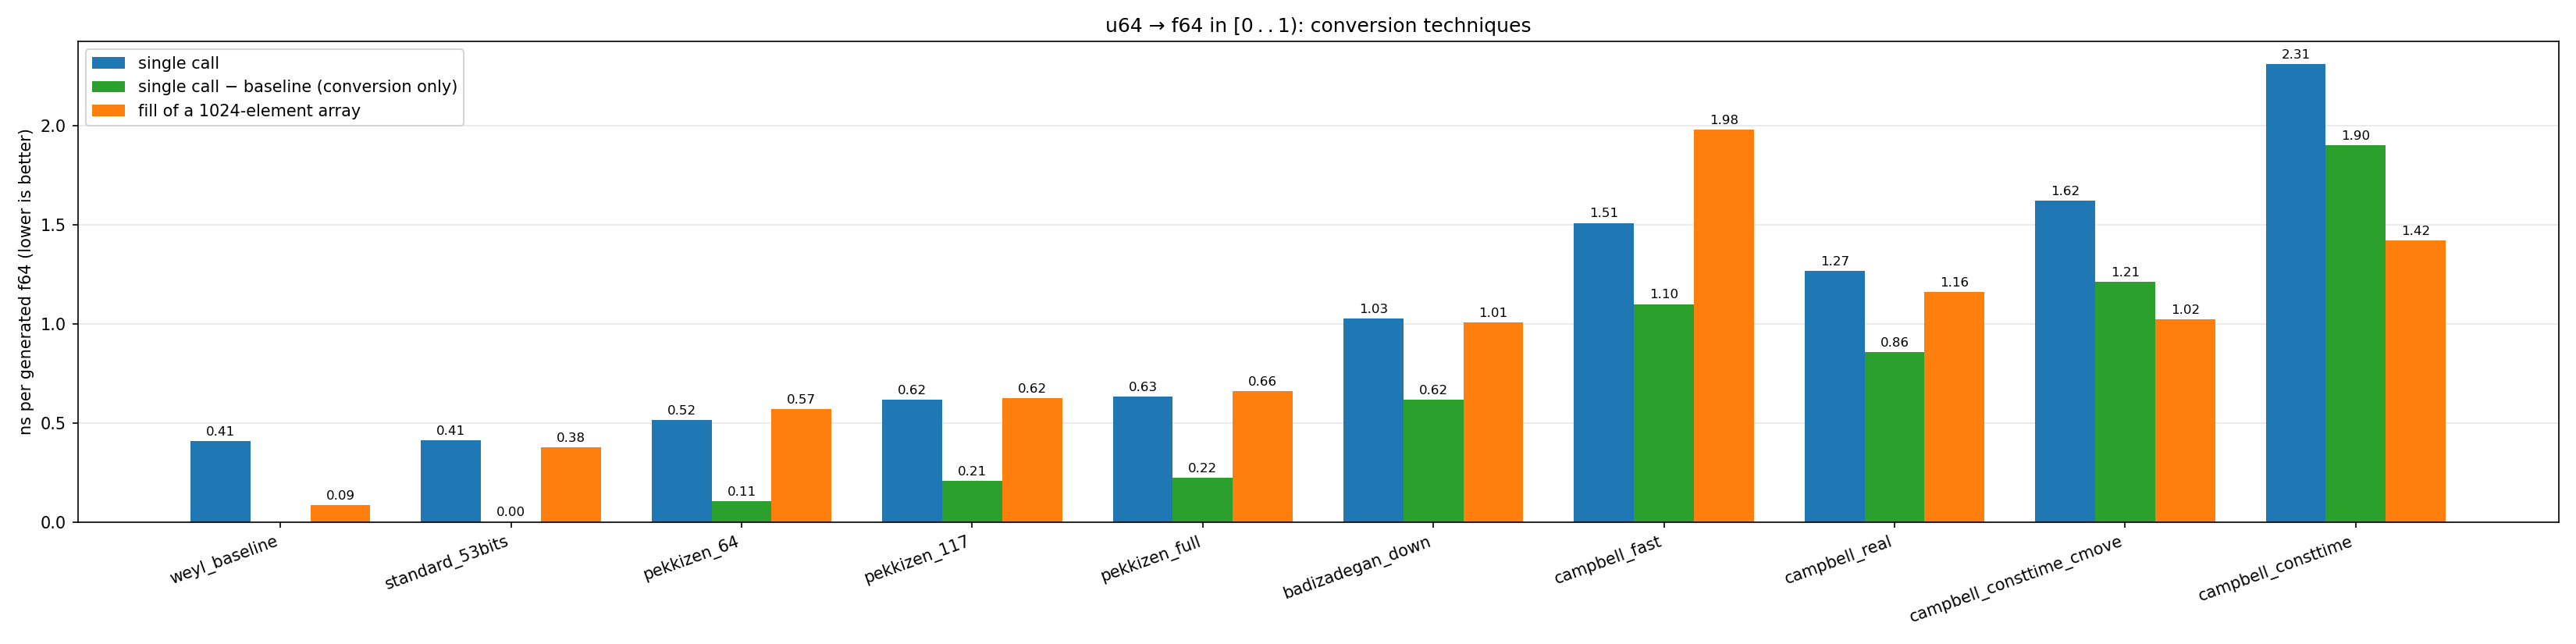
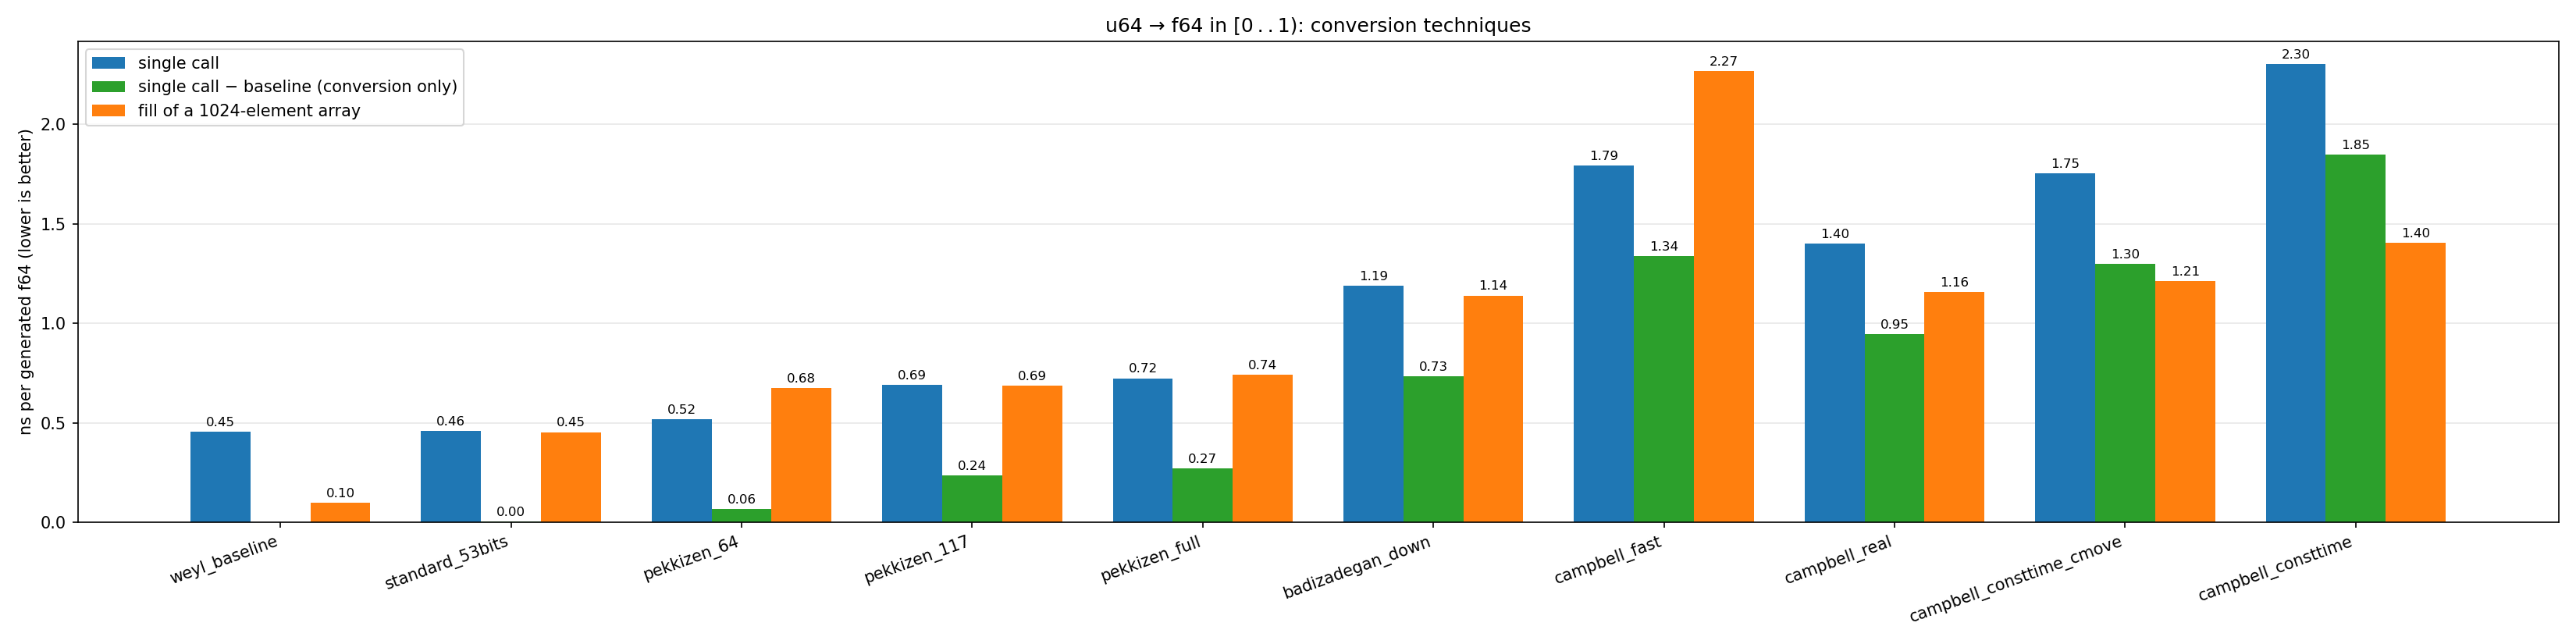
Fixed CI for AVX512

diff --git a/src/campbell.rs b/src/campbell.rs
@@ -166,7 +166,7 @@ const TWO_M960: f64 = f64::from_bits((1023 - 960) << 52);
 /// AVX-512F provides `ldexp` in hardware (`vscalefsd`, x·2^⌊e⌋ with a
 /// single rounding, subnormals included), so a single instruction
 /// replaces the two-multiplication sequence of the portable version
-/// below, with bit-for-bit identical results.
+/// below.
 #[cfg(all(target_arch = "x86_64", target_feature = "avx512f"))]
 #[inline(always)]
 fn ldexp_sig(significand: u64, exponent: i32) -> f64 {
@@ -223,7 +223,7 @@ fn ldexp_sig(significand: u64, exponent: i32) -> f64 {
 /// which is always representable, so the result is rounded once, exactly
 /// as in `ldexp`. On x86-64 compiled with AVX-512F the port uses instead
 /// the hardware `ldexp` (a single `vscalefsd` instruction) via inline
-/// assembly, with bit-for-bit identical results.
+/// assembly.
 #[inline(always)]
 pub fn real(mut bits: impl FnMut() -> u64) -> f64 {
     let mut exponent = -64i32;